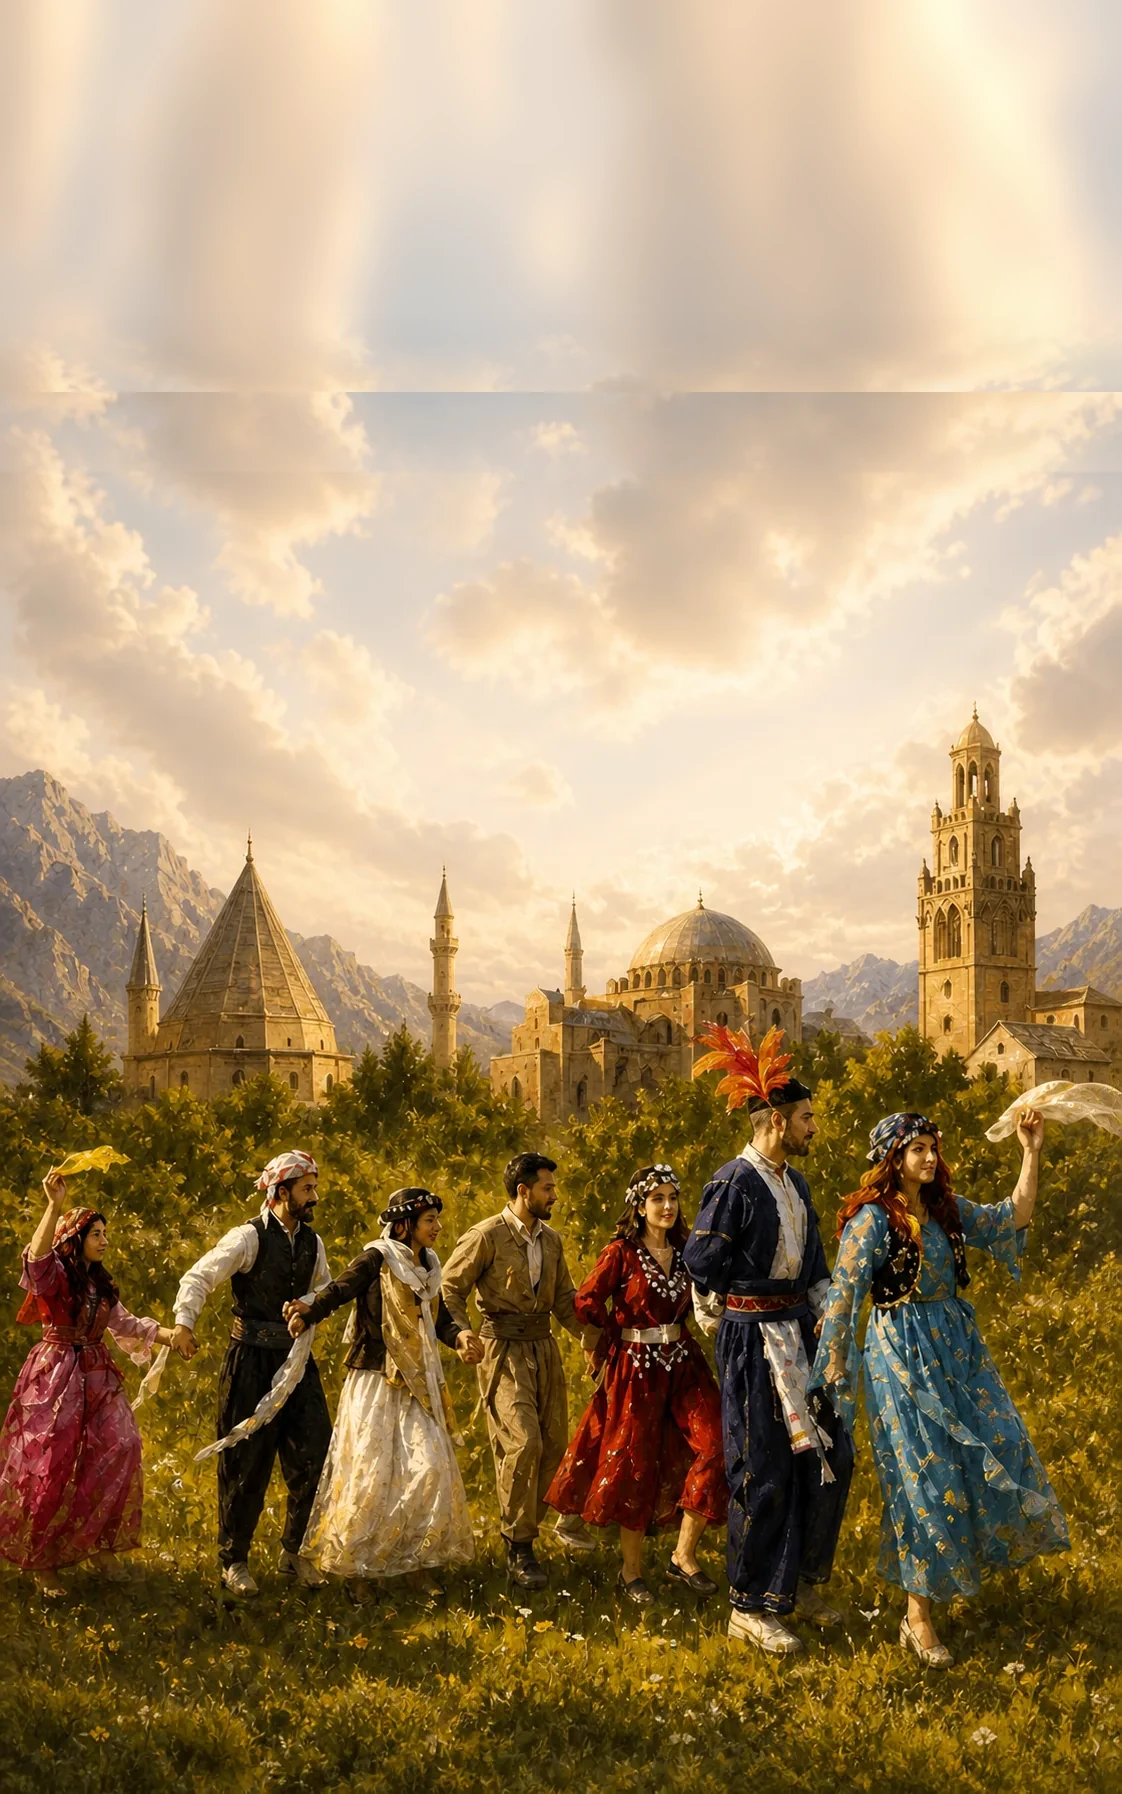
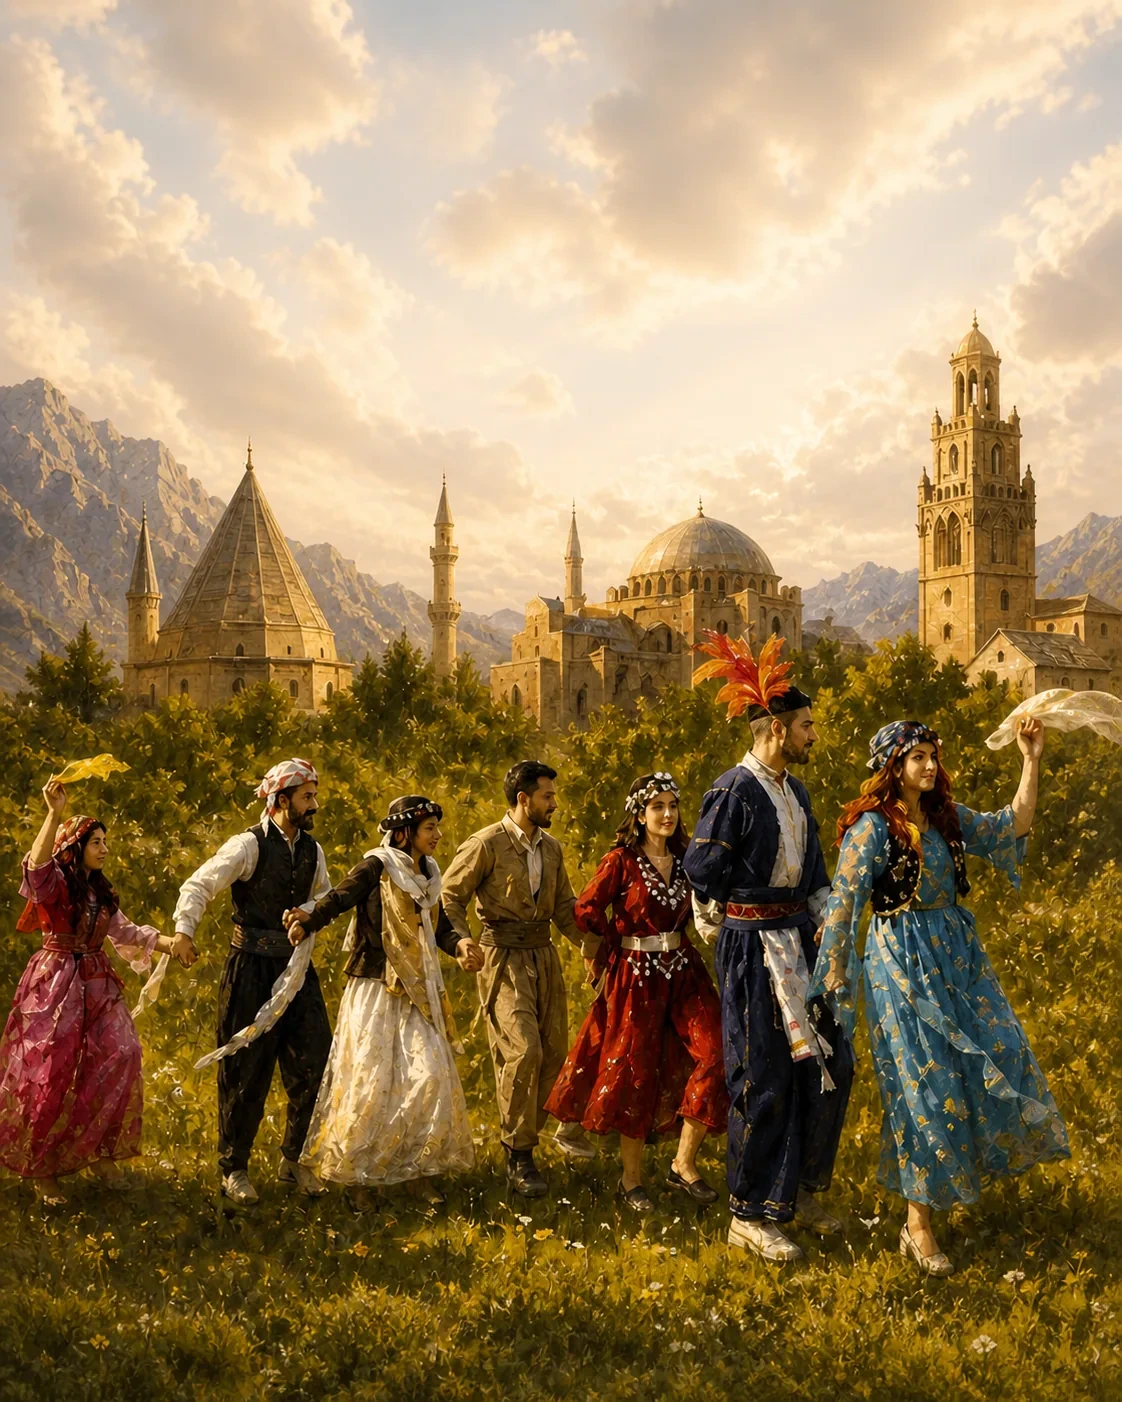
Remove unused cradle images and update Introduction component for improved layout and styling consistency

diff --git a/src/components/Sections/religions/Introduction.tsx b/src/components/Sections/religions/Introduction.tsx
@@ -498,9 +498,9 @@ export default function IntroductionPage({
         data-intro-hero="true"
         src={bg}
         alt=""
-        className="pointer-events-none absolute inset-x-0 top-[220px] z-0 h-[900px] w-full object-cover object-center [mask-image:linear-gradient(to_bottom,transparent_0%,black_14%,black_86%,transparent_100%)] [-webkit-mask-image:linear-gradient(to_bottom,transparent_0%,black_14%,black_86%,transparent_100%)]"
+        className="pointer-events-none absolute inset-x-0 top-0 z-0 h-[1180px] w-full object-cover object-[center_28%] [mask-image:linear-gradient(to_bottom,black_0%,black_12%,black_86%,transparent_100%)] [-webkit-mask-image:linear-gradient(to_bottom,black_0%,black_12%,black_86%,transparent_100%)]"
       />
-      <div className="pointer-events-none absolute inset-x-0 top-[220px] z-[1] h-[900px] bg-[linear-gradient(to_bottom,#faf8f5_0%,transparent_16%,transparent_84%,#faf8f5_100%)]" />
+      <div className="pointer-events-none absolute inset-x-0 top-0 z-[1] h-[1180px] bg-[linear-gradient(to_bottom,#faf8f5_0%,transparent_14%,transparent_84%,#faf8f5_100%)]" />
 
       {onBack && (
         <button
@@ -525,7 +525,7 @@ export default function IntroductionPage({
       )}
 
       <div className="relative z-10 mx-auto flex min-h-full w-full max-w-[1220px] flex-col">
-        <header data-intro-animate="true" className="mx-auto max-w-[850px] shrink-0 pt-8 text-center">
+        <header data-intro-animate="true" className="mx-auto max-w-[850px] shrink-0 pt-[200px] text-center">
           <div className="mx-auto mb-2 w-[220px]">
             <DecorativeLine color="#c3923a" />
           </div>
@@ -540,7 +540,7 @@ export default function IntroductionPage({
           </p>
         </header>
 
-        <section data-intro-animate="true" className="mt-[920px] flex flex-1 flex-col pb-4">
+        <section data-intro-animate="true" className="mt-[780px] flex flex-1 flex-col pb-4">
           <nav className="mb-6 flex shrink-0 justify-center border-b border-[#d7b77e]/45">
             <div className="flex gap-2">
               {tabs.map((tab) => {
